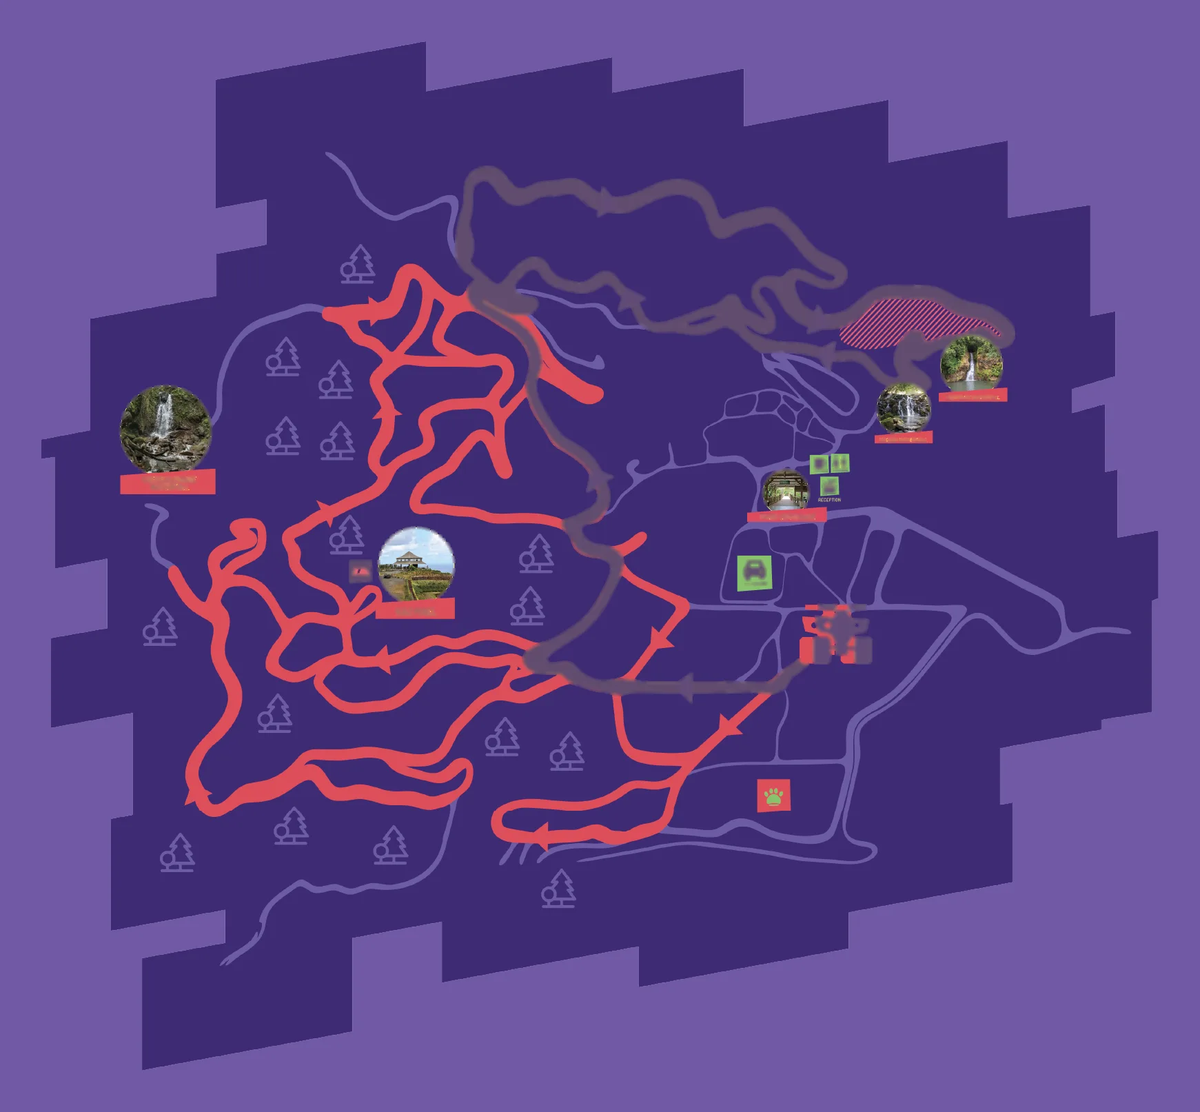
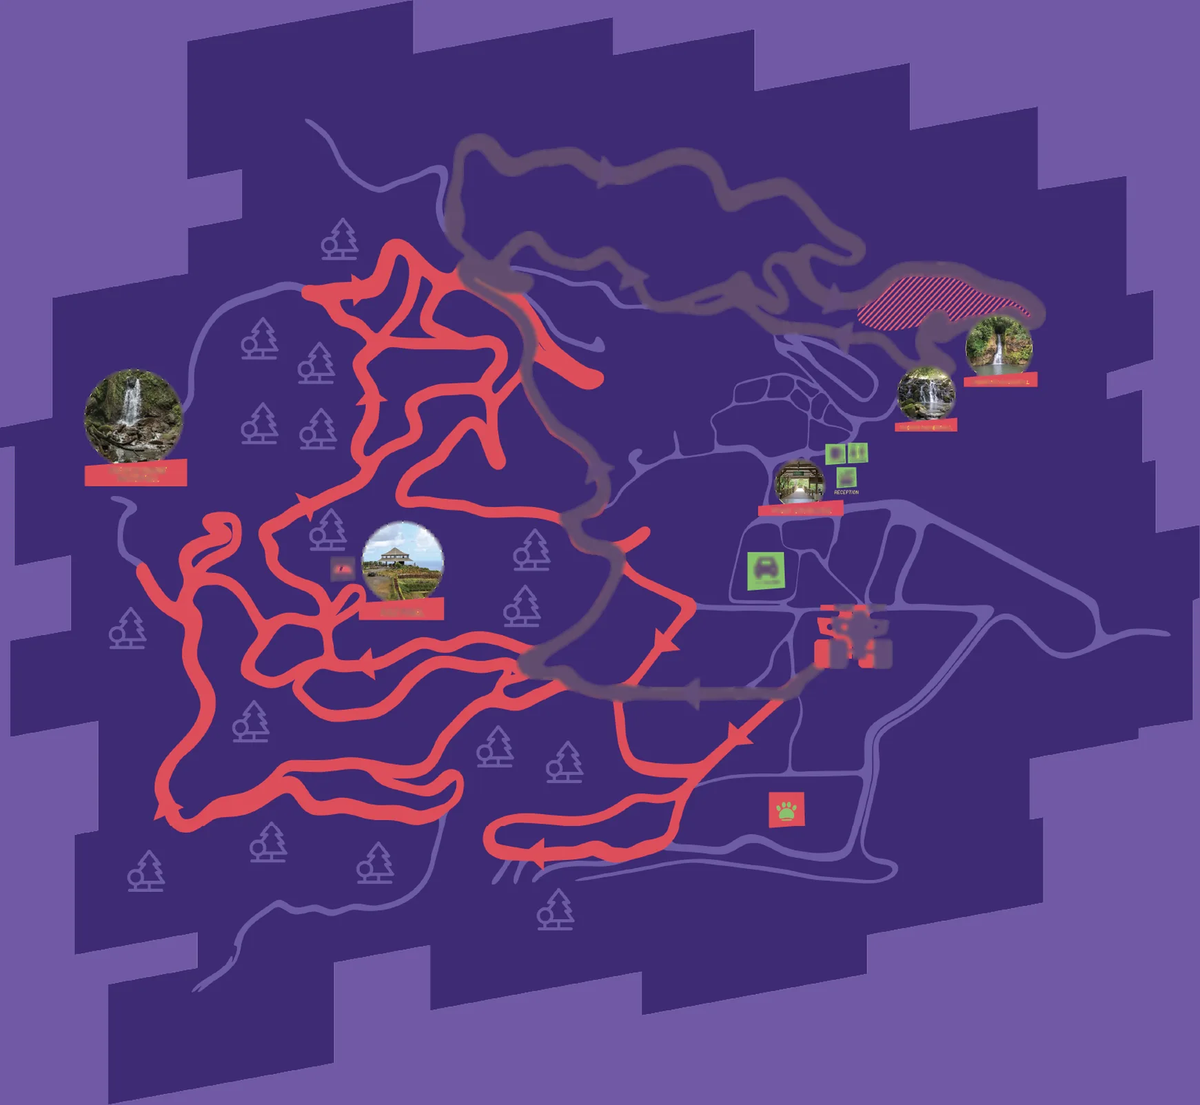
Maps: glowing trace animation, 8 zipline tours, smaller markers
- Zipline cables trace in one after another with a glow and a landing spark
  when a tour is picked; the quad map sweeps its chosen loop into view from
  the base over the dimmed map.
- Advenature Flight now opens with The Signature (stop 1); walks between
  platforms are no longer drawn.
- Three single tours added: The Plunge (500 m), Waterfall Zipline (300 m,
  2 lines at Chamouzé) and The Signature (1.5 km).
- Route markers scaled down; quad map recropped without padding.

Changed region(s): [[0.0, 0.0, 1.0, 0.9975], [0.2481, 0.0935, 0.2791, 0.1247]]

diff --git a/src/data/maps.ts b/src/data/maps.ts
@@ -50,9 +50,13 @@ export interface MapRoute {
 // ---------------------------------------------------------------- QUAD & BUGGY
 
 export const QUAD_MAP = {
-  img: '/images/quad-map.webp', width: 1741, height: 1613,
+  img: '/images/quad-map.webp', width: 1741, height: 1604,
   // Per-route variants with the other loop dimmed and blurred (generated from the official map).
   routeImgs: { discovery: '/images/quad-map-discovery.webp', adventure: '/images/quad-map-adventure.webp' } as Record<string, string>,
+  // Both loops dimmed: the layer under the reveal animation.
+  dimImg: '/images/quad-map-dim.webp',
+  // The reveal grows out of the quad base.
+  revealOrigin: [71.3, 57.6] as [number, number],
 };
 
 const DRIVER = { k: 'DRIVER', v: '16 yrs + · driving licence' };
@@ -93,18 +97,18 @@ export const QUAD_ROUTES: MapRoute[] = [
 ];
 
 export const QUAD_PINS: MapPin[] = [
-  { n: 'Q', px: 69.8, py: 57.0, kind: 'main', name: 'Quad & Buggy Base', sub: 'Briefing, helmets and the convoy line-up. Both loops start and finish here, a short walk from reception.', img: '/images/map/quad-family-convoy.webp', go: 'detail', goArg: 'quad', btnLabel: 'Quad details' },
-  { n: 'A', px: 65.2, py: 44.3, kind: 'sub', name: 'Park Entrance & Reception', sub: 'Tickets, licence check and the photo kiosk. Parking is just below the gate.', img: '/images/trail-reception.webp', go: 'plan', btnLabel: 'Plan your visit' },
-  { n: '1', px: 41.4, py: 27.3, kind: 'main', name: 'The Trail Split', sub: 'Where the yellow Discovery loop and the red Adventure track part ways. Discovery riders head north, Adventure riders dive west.', img: '/images/map/quad-forest-track.webp', routes: ['discovery', 'adventure', 'advenature'], go: 'detail', goArg: 'quad', btnLabel: 'Quad details' },
-  { n: '2', px: 50.5, py: 18.6, kind: 'main', name: 'Northern Ridge Run', sub: 'The high, fast section of the Discovery loop with the whole valley opening up on your right.', img: '/images/map/quad-pov-ridge.webp', routes: ['discovery', 'advenature'], go: 'detail', goArg: 'buggy', btnLabel: 'Buggy details' },
-  { n: '3', px: 76.1, py: 28.8, kind: 'main', name: '23 Coloured Earth', sub: 'The loop skirts the 23 Coloured Earth: volcanic sands in 23 shades that never mix. Stop for the photo.', img: '/images/map/quad-coloured-earth-stop.webp', routes: ['discovery', 'advenature'], go: 'detail', goArg: 'coloured', btnLabel: 'About the earth' },
-  { n: '4', px: 80.9, py: 32.9, kind: 'main', name: 'Chamouzé Waterfall', sub: 'The convoy pauses above the Chamouzé falls, right beside the restaurant terrace.', img: '/images/chamouze-waterfall.webp', routes: ['discovery', 'advenature'], go: 'detail', goArg: 'waterfalls', btnLabel: 'See the falls' },
-  { n: '5', px: 75.2, py: 36.6, kind: 'main', name: 'Vacoas Waterfall', sub: '8 to 9 m high and 16 to 18 m wide, named after the rare Vacoas plants preserved around it.', img: '/images/vacoas-waterfall.webp', routes: ['discovery', 'advenature'], go: 'detail', goArg: 'waterfalls', btnLabel: 'See the falls' },
-  { n: '6', px: 34.5, py: 50.8, kind: 'main', name: 'Kazmaël Viewpoint', sub: 'Vue panoramique: the old Kazmaël house on its hilltop, with the south coast on the horizon on a clear day.', img: '/images/map/quad-kazmael-view.webp', routes: ['adventure', 'advenature'], go: 'detail', goArg: 'quad', btnLabel: 'Quad details' },
-  { n: '7', px: 13.7, py: 38.4, kind: 'main', name: 'Cheveux d’Ange Waterfall', sub: 'The “angel hair” falls, the furthest point west of the estate and only reachable on the red track.', img: '/images/map/waterfall-tall-couple.webp', routes: ['adventure', 'advenature'], go: 'detail', goArg: 'waterfalls', btnLabel: 'See the falls' },
-  { n: '8', px: 17.8, py: 70.7, kind: 'main', name: 'The Mud Bowl', sub: 'The far west loop: ruts, puddles and the mud you were promised. Dress for it.', img: '/images/map/quad-mud-2.webp', routes: ['adventure', 'advenature'], go: 'detail', goArg: 'quad', btnLabel: 'Quad details' },
-  { n: '9', px: 44.8, py: 74.7, kind: 'main', name: 'Forest Loop & River Ford', sub: 'Singletrack under the canopy with a splash through the river before the climb home.', img: '/images/map/quad-river-splash.webp', routes: ['adventure', 'advenature'], go: 'detail', goArg: 'quad', btnLabel: 'Quad details' },
-  { n: 'AF', px: 64.4, py: 71.6, kind: 'sub', name: 'Animal Farm', sub: 'Giant tortoises, albino deer and the rest of the Green Zone locals, just off the last stretch of the red track.', img: '/images/map/tortoise-farm.webp', go: 'detail', goArg: 'animals', btnLabel: 'Meet the animals' },
+  { n: 'Q', px: 71.3, py: 57.6, kind: 'main', name: 'Quad & Buggy Base', sub: 'Briefing, helmets and the convoy line-up. Both loops start and finish here, a short walk from reception.', img: '/images/map/quad-family-convoy.webp', go: 'detail', goArg: 'quad', btnLabel: 'Quad details' },
+  { n: 'A', px: 66.3, py: 43.8, kind: 'sub', name: 'Park Entrance & Reception', sub: 'Tickets, licence check and the photo kiosk. Parking is just below the gate.', img: '/images/trail-reception.webp', go: 'plan', btnLabel: 'Plan your visit' },
+  { n: '1', px: 40.8, py: 25.5, kind: 'main', name: 'The Trail Split', sub: 'Where the yellow Discovery loop and the red Adventure track part ways. Discovery riders head north, Adventure riders dive west.', img: '/images/map/quad-forest-track.webp', routes: ['discovery', 'adventure', 'advenature'], go: 'detail', goArg: 'quad', btnLabel: 'Quad details' },
+  { n: '2', px: 50.5, py: 16.1, kind: 'main', name: 'Northern Ridge Run', sub: 'The high, fast section of the Discovery loop with the whole valley opening up on your right.', img: '/images/map/quad-pov-ridge.webp', routes: ['discovery', 'advenature'], go: 'detail', goArg: 'buggy', btnLabel: 'Buggy details' },
+  { n: '3', px: 78.0, py: 27.1, kind: 'main', name: '23 Coloured Earth', sub: 'The loop skirts the 23 Coloured Earth: volcanic sands in 23 shades that never mix. Stop for the photo.', img: '/images/map/quad-coloured-earth-stop.webp', routes: ['discovery', 'advenature'], go: 'detail', goArg: 'coloured', btnLabel: 'About the earth' },
+  { n: '4', px: 83.2, py: 31.5, kind: 'main', name: 'Chamouzé Waterfall', sub: 'The convoy pauses above the Chamouzé falls, right beside the restaurant terrace.', img: '/images/chamouze-waterfall.webp', routes: ['discovery', 'advenature'], go: 'detail', goArg: 'waterfalls', btnLabel: 'See the falls' },
+  { n: '5', px: 77.1, py: 35.5, kind: 'main', name: 'Vacoas Waterfall', sub: '8 to 9 m high and 16 to 18 m wide, named after the rare Vacoas plants preserved around it.', img: '/images/vacoas-waterfall.webp', routes: ['discovery', 'advenature'], go: 'detail', goArg: 'waterfalls', btnLabel: 'See the falls' },
+  { n: '6', px: 33.4, py: 50.9, kind: 'main', name: 'Kazmaël Viewpoint', sub: 'Vue panoramique: the old Kazmaël house on its hilltop, with the south coast on the horizon on a clear day.', img: '/images/map/quad-kazmael-view.webp', routes: ['adventure', 'advenature'], go: 'detail', goArg: 'quad', btnLabel: 'Quad details' },
+  { n: '7', px: 11.0, py: 37.5, kind: 'main', name: 'Cheveux d’Ange Waterfall', sub: 'The “angel hair” falls, the furthest point west of the estate and only reachable on the red track.', img: '/images/map/waterfall-tall-couple.webp', routes: ['adventure', 'advenature'], go: 'detail', goArg: 'waterfalls', btnLabel: 'See the falls' },
+  { n: '8', px: 15.4, py: 72.4, kind: 'main', name: 'The Mud Bowl', sub: 'The far west loop: ruts, puddles and the mud you were promised. Dress for it.', img: '/images/map/quad-mud-2.webp', routes: ['adventure', 'advenature'], go: 'detail', goArg: 'quad', btnLabel: 'Quad details' },
+  { n: '9', px: 44.4, py: 76.7, kind: 'main', name: 'Forest Loop & River Ford', sub: 'Singletrack under the canopy with a splash through the river before the climb home.', img: '/images/map/quad-river-splash.webp', routes: ['adventure', 'advenature'], go: 'detail', goArg: 'quad', btnLabel: 'Quad details' },
+  { n: 'AF', px: 65.5, py: 73.3, kind: 'sub', name: 'Animal Farm', sub: 'Giant tortoises, albino deer and the rest of the Green Zone locals, just off the last stretch of the red track.', img: '/images/map/tortoise-farm.webp', go: 'detail', goArg: 'animals', btnLabel: 'Meet the animals' },
 ];
 
 // ---------------------------------------------------------------- ZIPLINES
@@ -119,14 +123,48 @@ const WIND = { k: 'NOTE', v: 'Weight limit varies with wind direction. Includes 
 
 export const ZIP_ROUTES: MapRoute[] = [
   {
+    id: 'plunge',
+    name: 'The Plunge',
+    tag: '500 M · 1 LINE',
+    color: '#5EEAD4', fg: '#340057',
+    blurb: 'One long drop from the Valley Canopy platform straight into the valley hub, running right beside the bicycle zipline. The quickest way to find out if you like flying.',
+    priceCat: 'zipline', priceRow: 'The Plunge',
+    facts: [ZH110, ZW120],
+    stations: ['9', '7'],
+    img: '/images/map/zip-canopy.webp',
+  },
+  {
+    id: 'waterfall',
+    name: 'Waterfall Zipline',
+    tag: '300 M · 2 LINES',
+    color: '#7DD3FC', fg: '#340057',
+    blurb: 'Two lines at the Chamouzé waterfall: 200 m from the summit platform straight over the cascade and the restaurant terrace, then a 100 m hop back up.',
+    priceCat: 'zipline', priceRow: 'Waterfall Zipline',
+    facts: [ZH110, ZW120],
+    stations: ['3', '10', '5'],
+    img: '/images/map/zip-waterfall-pov-2.webp',
+  },
+  {
+    id: 'signature',
+    name: 'The Signature',
+    tag: '1.5 KM · 1 LINE',
+    color: '#F472B6', fg: '#340057',
+    blurb: 'The longest single cable in the valley: 1.5 km from the far-west tower to the valley hub, flying position under 100 kg, sitting position up to 150 kg.',
+    priceCat: 'zipline', priceRow: 'The Signature',
+    facts: [ZH140, ZW40, { k: 'MAX WEIGHT', v: '100 kg flying · 150 kg sitting' }, { k: 'NOTE', v: 'Weight limit varies with wind direction.' }],
+    stations: ['16', '7'],
+    signature: true,
+    img: '/images/map/zip-signature-valley.webp',
+  },
+  {
     id: 'advenature',
     name: 'Advenature Flight',
     tag: '5.5 KM · 11 LINES · WITH THE SIGNATURE',
     color: '#FF3358', fg: '#FFFFFF',
-    blurb: 'The complete flight: every cable in the network back to back. The western chain down from the Kazmaël slopes, The Signature 1.5 km across the valley, then the Coloured Earth ridge and both waterfalls. Around 3 hours of air time.',
+    blurb: 'The complete flight: every cable in the network. It opens with The Signature 1.5 km across the valley, climbs the northern ridge over the Coloured Earth and both waterfalls, then finishes with the western chain up the Kazmaël slopes and back into the hub. Around 3 hours of air time.',
     priceCat: 'zipline', priceRow: 'Advenature Flight',
     facts: [ZH140, ZW40, ZW120, WIND],
-    stations: ['8', '13', '14', '15', '16', '7', '1', '4', '2', '6', '11', '12', '10', '5', '3'],
+    stations: ['16', '7', '1', '4', '2', '6', '11', '12', '10', '3', '15', '14', '13', '8', '9', '7'],
     signature: true,
     img: '/images/map/zip-signature-valley.webp',
   },
@@ -138,7 +176,7 @@ export const ZIP_ROUTES: MapRoute[] = [
     blurb: 'Seven lines built around The Signature: the 1.5 km flight from the far-west tower to the valley hub, then the northern ridge, the Coloured Earth and both waterfall crossings.',
     priceCat: 'zipline', priceRow: 'Sky Pulse Tour',
     facts: [ZH140, ZW40, ZW120, WIND],
-    stations: ['16', '7', '1', '4', '2', '6', '11', '12', '10', '5'],
+    stations: ['16', '7', '1', '4', '2', '6', '11', '12', '10', '3'],
     signature: true,
     img: '/images/map/zip-coloured-earth-flight.webp',
   },

diff --git a/src/pages/home/ActivityMap.tsx b/src/pages/home/ActivityMap.tsx
@@ -16,8 +16,13 @@ export interface ActivityMapProps {
   eyebrow: string;             // e.g. "03 · QUAD & BUGGY · 2 LOOPS"
   title: string;
   intro: string;
-  /** `routeImgs`: optional per-route variant of the map (other trails dimmed), cross-faded on selection. */
-  map: { img: string; width: number; height: number; routeImgs?: Record<string, string> };
+  /**
+   * `routeImgs`: optional per-route variant of the map (other trails dimmed). With `dimImg` (every trail
+   * dimmed) underneath, the selected variant is revealed with a glowing sweep from `revealOrigin`.
+   */
+  map: { img: string; width: number; height: number; routeImgs?: Record<string, string>; dimImg?: string; revealOrigin?: [number, number] };
+  /** Route selected on first render (defaults to the first). */
+  defaultRoute?: string;
   alt: string;
   routes: MapRoute[];
   pins: MapPin[];              // route pins (with `routes`) and landmarks (without)
@@ -161,11 +166,11 @@ function Lightbox({ shots, idx, onClose, onStep }: { shots: { src: string; cap: 
  * a route selector, tappable numbered pins (photo + restrictions + price) and a
  * photo strip. Same look and feel as the walking-trail sitemap above it.
  */
-export function ActivityMap({ eyebrow, title, intro, map, alt, routes, pins, drawRoutes, lines, signature, extraLines, gallery, footNote, footTag, hint }: ActivityMapProps) {
+export function ActivityMap({ eyebrow, title, intro, map, alt, routes, pins, drawRoutes, lines, signature, extraLines, gallery, footNote, footTag, hint, defaultRoute }: ActivityMapProps) {
   const goto = useGoto();
   const isMobile = useIsMobile();
   const priceFrom = usePriceFrom();
-  const [routeId, setRouteId] = useState(routes[0].id);
+  const [routeId, setRouteId] = useState(defaultRoute || routes[0].id);
   const [sel, setSel] = useState<string>('');     // selected pin code
   const [shot, setShot] = useState(-1);
 
@@ -251,8 +256,15 @@ export function ActivityMap({ eyebrow, title, intro, map, alt, routes, pins, dra
   // Route geometry (zipline) in image-percentage space.
   const sigPts = drawRoutes && signature && route.signature ? [byCode[signature[0]], byCode[signature[1]]] : null;
   const seg = (s: { a: MapPin; b: MapPin }) => ({ x1: s.a.px, y1: s.a.py, x2: s.b.px, y2: s.b.py });
-  const mapVariants = map.routeImgs ? Object.entries(map.routeImgs) : [];
-  const activeVariant = map.routeImgs?.[route.id];
+  // Cables only, in flying order, each traced after the previous one (dash animation, see global.css).
+  const cables = segments.filter((s) => s.cable);
+  const TRACE = 0.55; // seconds per cable
+  const traceStyle = (i: number, extra: React.CSSProperties = {}): React.CSSProperties => ({
+    strokeDasharray: 1, strokeDashoffset: 1, animation: `vtrace ${TRACE}s ease-out ${i * TRACE}s forwards`, ...extra,
+  });
+  // Quad: the active map layer (dimmed variant or the full map) revealed from the base with a glowing sweep.
+  const activeLayer = map.routeImgs ? (map.routeImgs[route.id] || map.img) : null;
+  const revealAt = map.revealOrigin ? `${map.revealOrigin[0]}% ${map.revealOrigin[1]}%` : '50% 50%';
   const priceMain = priceFrom(route.priceCat, route.priceRow);
   const price2 = route.priceCat2 && route.priceRow2 ? priceFrom(route.priceCat2, route.priceRow2) : null;
 
@@ -266,7 +278,7 @@ export function ActivityMap({ eyebrow, title, intro, map, alt, routes, pins, dra
         </div>
         <p style={{ color: 'rgba(255,255,255,.75)', fontSize: 15.5, lineHeight: 1.55, maxWidth: '60ch', margin: '18px 0 0' }}>{intro}</p>
 
-        <div style={{ display: 'flex', gap: 10, overflowX: 'auto', padding: '22px 0 6px', scrollbarWidth: 'none' }}>
+        <div style={{ display: 'flex', gap: 10, overflowX: 'auto', padding: '22px 0 6px', scrollbarWidth: 'none', flexWrap: isMobile ? 'nowrap' : 'wrap' }}>
           {routes.map((r) => <RouteTab key={r.id} r={r} on={r.id === route.id} onClick={() => selectRoute(r.id)} />)}
         </div>
 
@@ -275,7 +287,7 @@ export function ActivityMap({ eyebrow, title, intro, map, alt, routes, pins, dra
             <div style={{ position: 'relative', overflow: 'hidden', borderRadius: 12 }}>
               <div style={{ position: 'relative' }}>
                 <Img
-                  src={map.img}
+                  src={map.dimImg || map.img}
                   alt={alt}
                   surface="dark"
                   placeholder="#2E0A4E"
@@ -283,20 +295,21 @@ export function ActivityMap({ eyebrow, title, intro, map, alt, routes, pins, dra
                   height={map.height}
                   style={{ width: '100%', height: 'auto', display: 'block', aspectRatio: `${map.width} / ${map.height}`, objectFit: 'contain' }}
                 />
-                {mapVariants.map(([id, src]) => (
+                {activeLayer && (
                   <Img
-                    key={id}
-                    src={src}
+                    key={route.id}
+                    src={activeLayer}
                     alt=""
                     aria-hidden
+                    priority
                     placeholder="transparent"
                     width={map.width}
                     height={map.height}
-                    style={{ position: 'absolute', inset: 0, width: '100%', height: '100%', display: 'block', objectFit: 'contain', opacity: activeVariant === src ? 1 : 0, transition: 'opacity .45s ease', pointerEvents: 'none' }}
+                    style={{ position: 'absolute', inset: 0, width: '100%', height: '100%', display: 'block', objectFit: 'contain', pointerEvents: 'none', ['--vreveal-at' as string]: revealAt, animation: 'vreveal 1.8s cubic-bezier(.4,0,.2,1) both' }}
                   />
-                ))}
+                )}
                 {(drawRoutes || extraLines) && (
-                  <svg viewBox="0 0 100 100" preserveAspectRatio="none" style={{ position: 'absolute', inset: 0, width: '100%', height: '100%', pointerEvents: 'none' }}>
+                  <svg key={route.id} viewBox="0 0 100 100" preserveAspectRatio="none" style={{ position: 'absolute', inset: 0, width: '100%', height: '100%', pointerEvents: 'none' }}>
                     <defs>
                       <filter id="amglow" x="-20%" y="-20%" width="140%" height="140%">
                         <feGaussianBlur stdDeviation="0.6" />
@@ -309,13 +322,15 @@ export function ActivityMap({ eyebrow, title, intro, map, alt, routes, pins, dra
                         <text x={(l.from[0] + l.to[0]) / 2} y={(l.from[1] + l.to[1]) / 2 - 1.6} textAnchor="middle" fill={l.color} style={{ fontFamily: MONO, fontSize: isMobile ? 2.4 : 1.7, fontWeight: 700, letterSpacing: '.08em', paintOrder: 'stroke', stroke: '#260040', strokeWidth: 0.6 }} transform={`rotate(${Math.atan2(l.to[1] - l.from[1], l.to[0] - l.from[0]) * 180 / Math.PI} ${(l.from[0] + l.to[0]) / 2} ${(l.from[1] + l.to[1]) / 2})`}>{l.label}</text>
                       </g>
                     ))}
-                    {drawRoutes && segments.filter((s) => s.cable).map((s, i) => (
-                      <line key={'g' + i} {...seg(s)} stroke={route.color} strokeOpacity={0.55} filter="url(#amglow)" strokeLinecap="round" vectorEffect="non-scaling-stroke" style={{ strokeWidth: isMobile ? 9 : 11 }} />
+                    {/* Cables use viewBox units (no non-scaling-stroke): Chrome ignores pathLength for dashes otherwise, which breaks the trace. */}
+                    {drawRoutes && cables.map((s, i) => (
+                      <line key={'g' + i} {...seg(s)} pathLength={1} stroke={route.color} strokeOpacity={0.5} filter="url(#amglow)" strokeLinecap="round" style={traceStyle(i, { strokeWidth: isMobile ? 2.4 : 1.3 })} />
                     ))}
-                    {drawRoutes && segments.map((s, i) => s.cable ? (
-                      <line key={'c' + i} {...seg(s)} stroke={route.color} strokeLinecap="round" vectorEffect="non-scaling-stroke" style={{ strokeWidth: isMobile ? 2.5 : 3.5 }} />
-                    ) : (
-                      <line key={'w' + i} {...seg(s)} stroke="#FFFFFF" strokeOpacity={0.85} strokeDasharray="1.2 1.6" strokeLinecap="round" vectorEffect="non-scaling-stroke" style={{ strokeWidth: 2 }} />
+                    {drawRoutes && cables.map((s, i) => (
+                      <line key={'c' + i} {...seg(s)} pathLength={1} stroke={route.color} strokeLinecap="round" style={traceStyle(i, { strokeWidth: isMobile ? 0.6 : 0.34 })} />
+                    ))}
+                    {drawRoutes && cables.map((s, i) => (
+                      <circle key={'s' + i} cx={s.b.px} cy={s.b.py} r={0.9} fill="#FFFFFF" style={{ opacity: 0, animation: `vspark .6s ease-out ${(i + 1) * TRACE - 0.1}s forwards` }} />
                     ))}
                     {sigPts && sigPts[0] && sigPts[1] && (
                       <>
@@ -336,6 +351,7 @@ export function ActivityMap({ eyebrow, title, intro, map, alt, routes, pins, dra
                       i={0}
                       on={sel === p.n}
                       isMobile={isMobile}
+                      scale={0.72}
                       onClick={() => setSel((cur) => (cur === p.n ? '' : p.n))}
                     />
                   );
@@ -349,7 +365,6 @@ export function ActivityMap({ eyebrow, title, intro, map, alt, routes, pins, dra
               <span style={{ display: 'flex', gap: 14, flexWrap: 'wrap' }}>
                 <span><span style={{ display: 'inline-block', width: 9, height: 9, borderRadius: 999, background: '#FF3358', border: '1.5px solid #FFF', marginRight: 5, verticalAlign: -1 }} />ROUTE STOP</span>
                 <span><span style={{ display: 'inline-block', width: 9, height: 9, borderRadius: 999, background: '#33FF74', border: '1.5px solid #FFF', marginRight: 5, verticalAlign: -1 }} />LANDMARK</span>
-                {drawRoutes && <span><span style={{ display: 'inline-block', width: 14, borderTop: '2px dotted #FFF', marginRight: 5, verticalAlign: 3 }} />WALK BETWEEN PLATFORMS</span>}
                 {extraLines?.map((l) => <span key={l.label}><span style={{ display: 'inline-block', width: 14, borderTop: `2px ${l.dashed ? 'dashed' : 'solid'} ${l.color}`, marginRight: 5, verticalAlign: 3 }} />{l.label}</span>)}
               </span>
             </div>

diff --git a/src/pages/home/ActivityMaps.tsx b/src/pages/home/ActivityMaps.tsx
@@ -26,9 +26,10 @@ export function ZiplineMap() {
   const pins = [...ZIP_STATIONS, ...ZIP_LANDMARKS];
   return (
     <ActivityMap
-      eyebrow="04 · ZIPLINES · 5 TOURS"
+      eyebrow="04 · ZIPLINES · 8 TOURS"
+      defaultRoute="advenature"
       title="The zipline network"
-      intro="Every cable in the valley on the official zipline map, plus the bicycle zipline and the Nepalese bridge. Choose a tour and its lines light up, numbered from launch to landing, with dotted walks between platforms. Tap a platform for the view, the height and weight limits and the price."
+      intro="Every cable in the valley on the official zipline map, plus the bicycle zipline and the Nepalese bridge. Choose one of the eight tours and watch its lines trace across the valley, numbered from launch to landing. Tap a platform for the view, the height and weight limits and the price."
       map={ZIP_MAP}
       alt="Vallé zipline map: launch platforms, The Signature 1.5 km line, the Coloured Earth and both waterfalls"
       routes={ZIP_ROUTES}
@@ -40,7 +41,7 @@ export function ZiplineMap() {
       gallery={ZIP_GALLERY}
       hint="PICK A TOUR · TAP A PLATFORM"
       footNote="Minimum height 1 m 10 on every tour, 1 m 40 and 40 kg minimum on the tours that include The Signature. Maximum 120 kg, with the limit on The Signature varying with wind direction. Closed shoes, full harness, briefing and guides included."
-      footTag="ROUTE LAYOUTS INDICATIVE · WEATHER DEPENDENT"
+      footTag="8 TOURS · 1 TO 11 LINES · WEATHER DEPENDENT"
     />
   );
 }

diff --git a/src/pages/home/ParkMap.tsx b/src/pages/home/ParkMap.tsx
@@ -18,12 +18,12 @@ interface SelPinModel {
   btnClick: () => void;
 }
 
-export function PinButton({ p, i, on, isMobile, onClick }: { p: Pin; i: number; on: boolean; isMobile: boolean; onClick: (i: number) => void }) {
+export function PinButton({ p, i, on, isMobile, onClick, scale = 1 }: { p: Pin; i: number; on: boolean; isMobile: boolean; onClick: (i: number) => void; scale?: number }) {
   const [h, bind] = useHover();
   const sub = p.kind === 'sub';
-  const base = isMobile ? (sub ? 17 : 21) : (sub ? 30 : 36);
-  const dim = on ? base + (isMobile ? 4 : 10) : base;
-  const fs = isMobile ? (sub ? 7 : 9.5) : (sub ? 10 : 13);
+  const base = (isMobile ? (sub ? 17 : 21) : (sub ? 30 : 36)) * scale;
+  const dim = on ? base + (isMobile ? 4 : 10) * scale : base;
+  const fs = (isMobile ? (sub ? 7 : 9.5) : (sub ? 10 : 13)) * (scale < 1 ? (1 + scale) / 2 : 1);
   return (
     <button
       {...bind}

diff --git a/src/styles/global.css b/src/styles/global.css
@@ -75,3 +75,13 @@ img { max-width: 100%; }
 @media (prefers-reduced-motion: reduce) {
   *, *::before, *::after { animation-duration: .01ms !important; animation-iteration-count: 1 !important; transition-duration: .01ms !important; }
 }
+
+/* Activity maps: cables trace in one after another, a spark lands on each platform,
+   and the quad map's chosen loop sweeps into view from the base. */
+@keyframes vtrace { to { stroke-dashoffset: 0; } }
+@keyframes vspark { 0% { opacity: 0; r: 0.4; } 35% { opacity: 1; r: 1.6; } 100% { opacity: 0; r: 2.6; } }
+@keyframes vreveal {
+  0%   { clip-path: circle(0% at var(--vreveal-at, 50% 50%)); filter: brightness(1.9) saturate(1.5); }
+  70%  { filter: brightness(1.35) saturate(1.3); }
+  100% { clip-path: circle(140% at var(--vreveal-at, 50% 50%)); filter: brightness(1) saturate(1); }
+}
